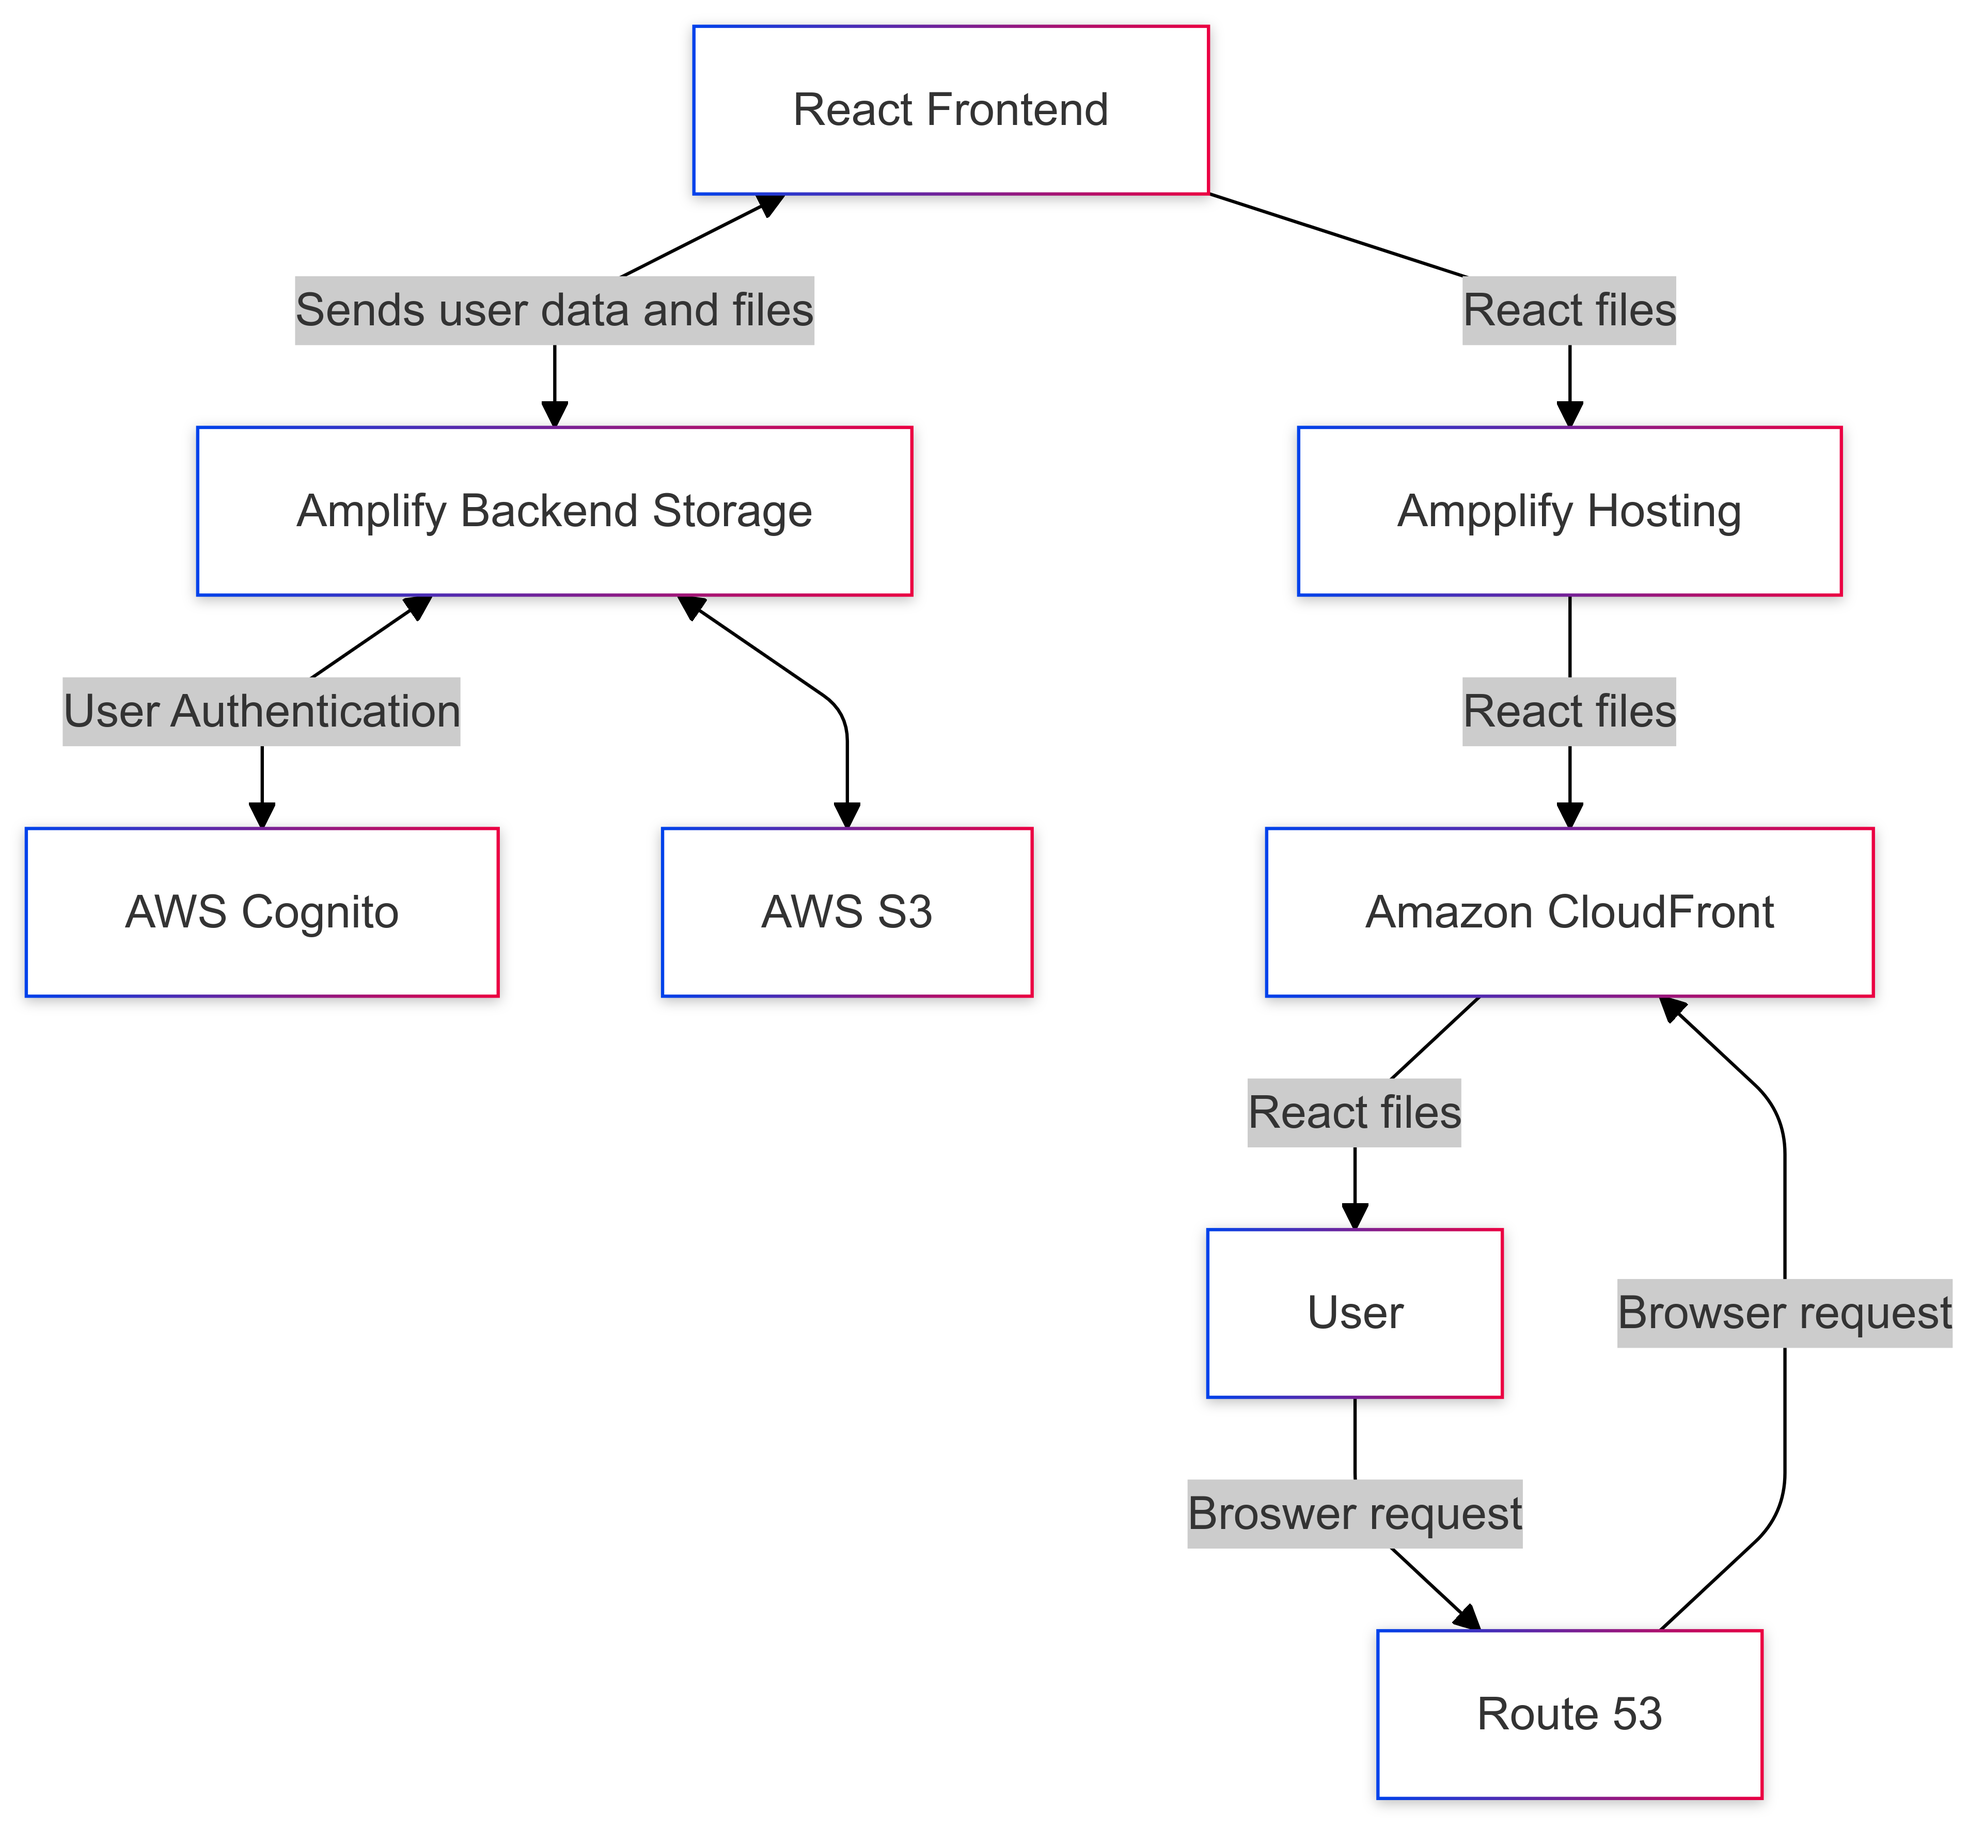
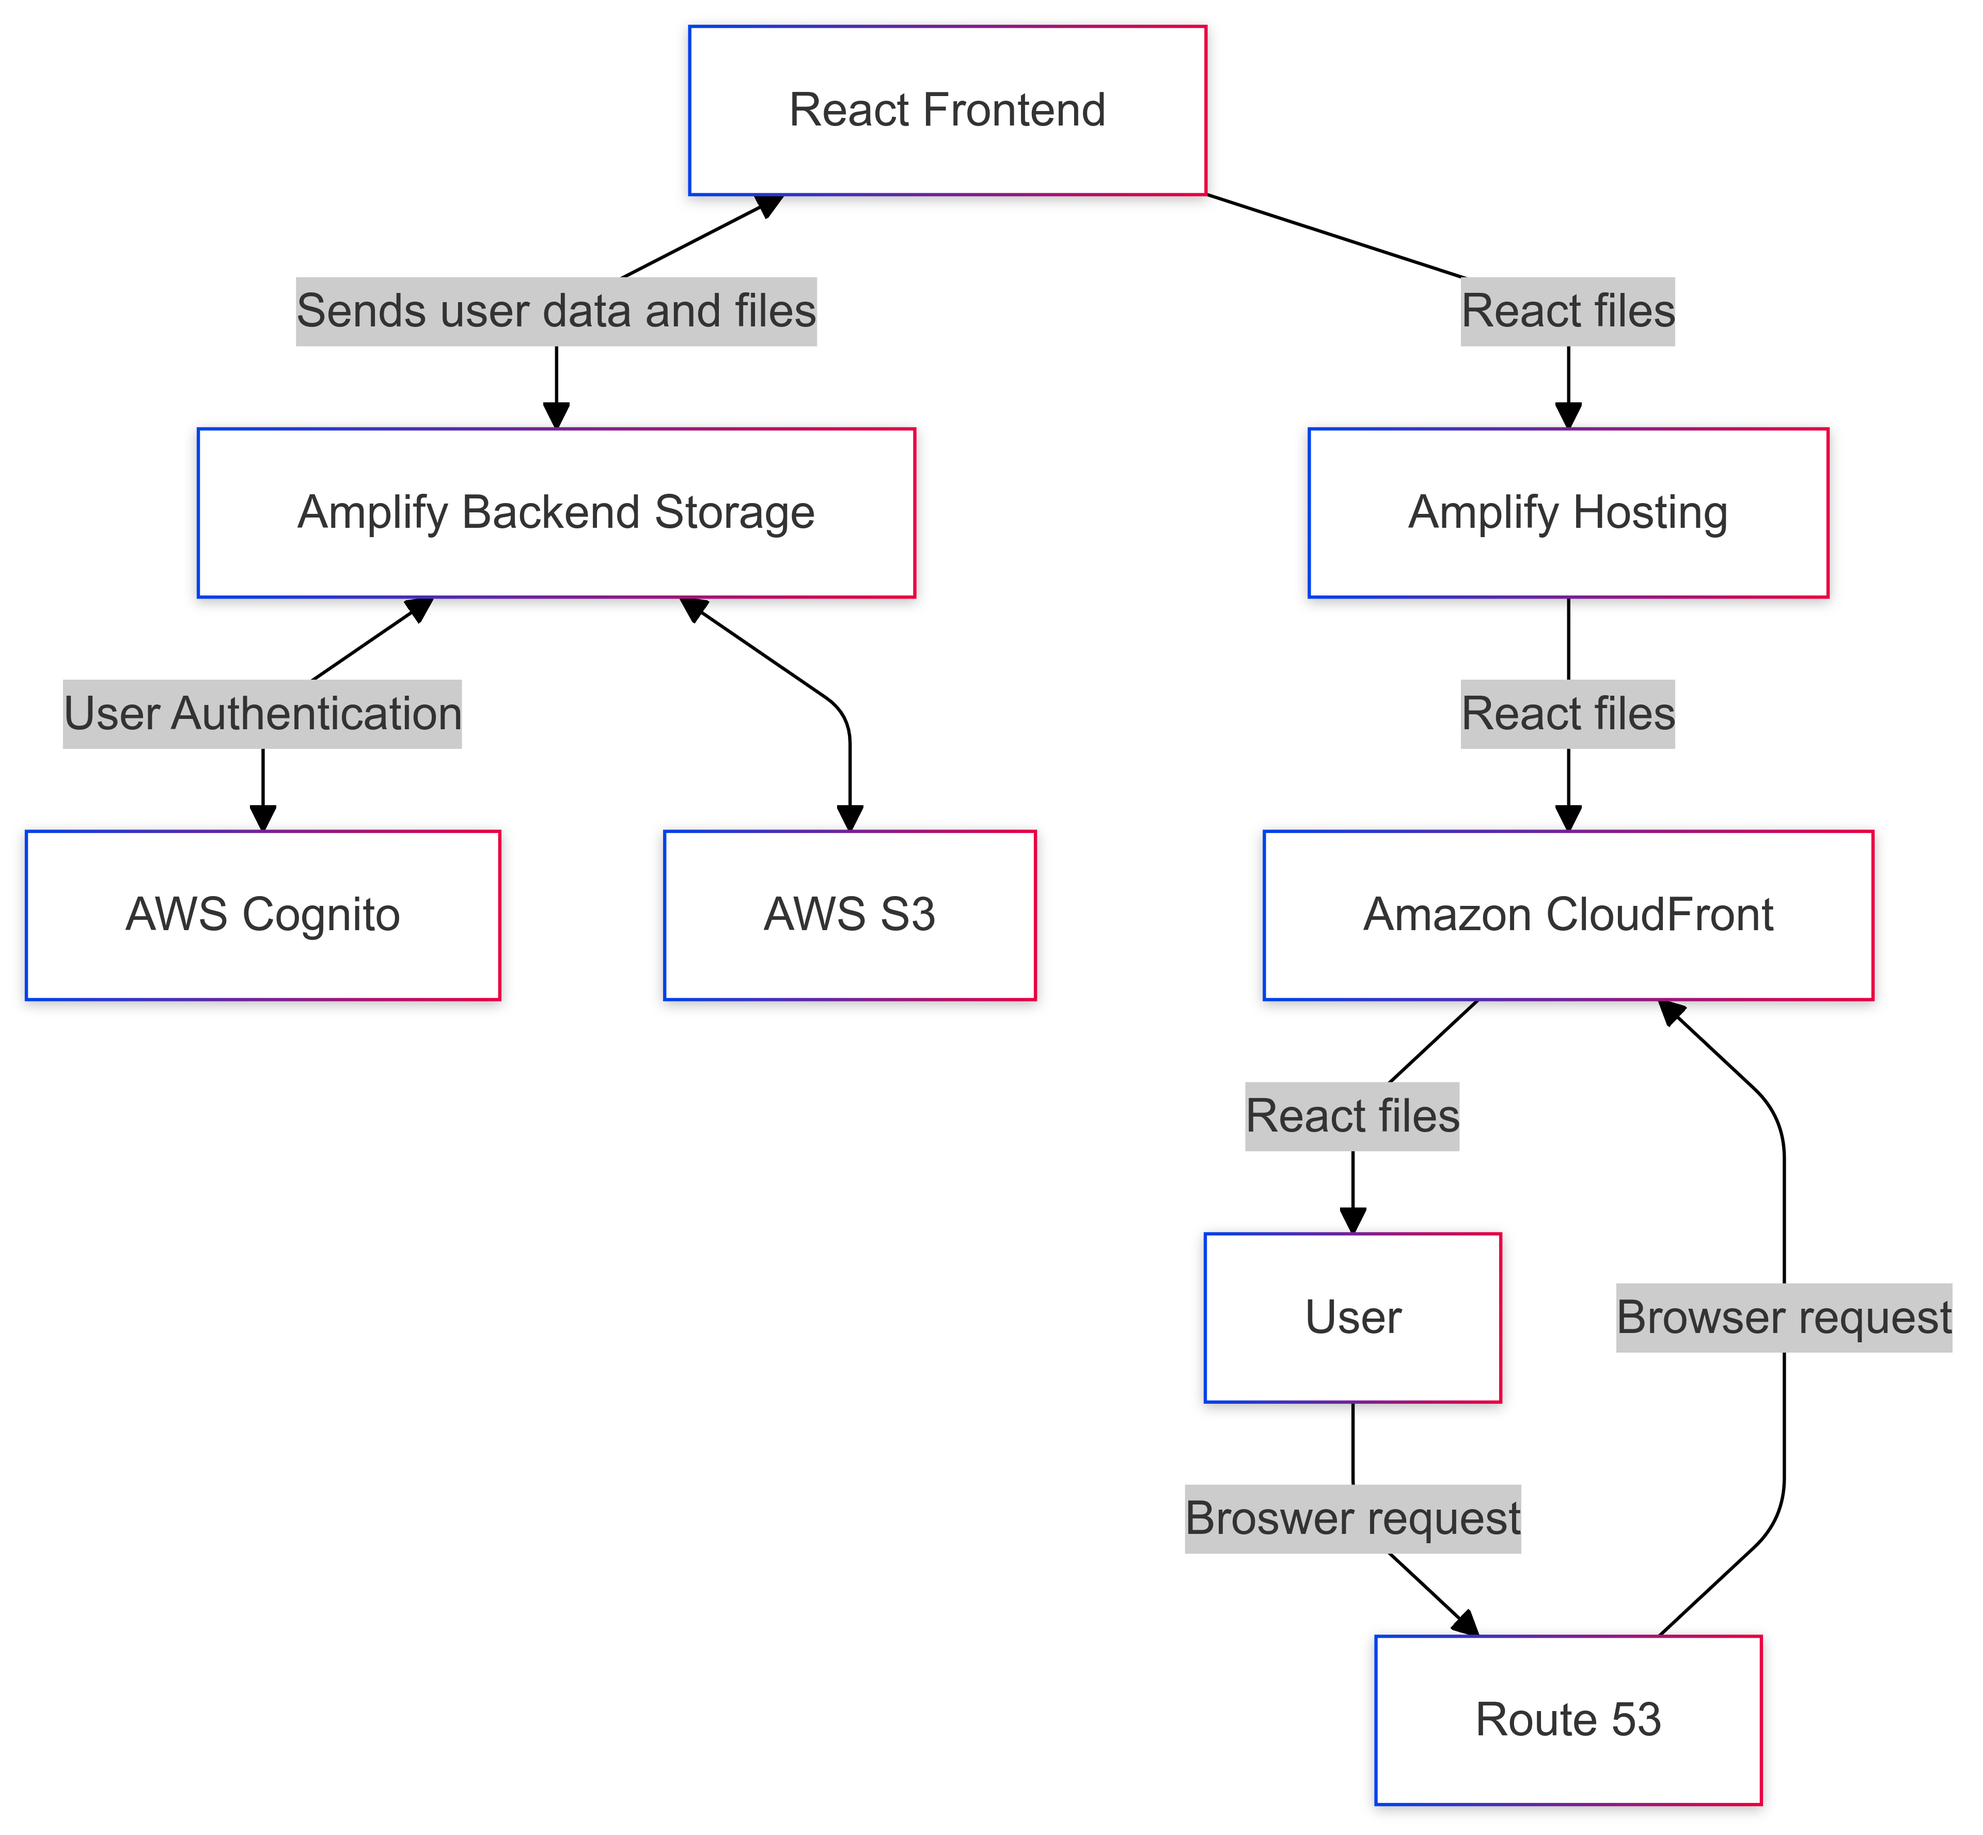
Update welcome messaging and font, SA diagram spelling fix

diff --git a/index.html b/index.html
@@ -6,6 +6,9 @@
     <link href="/s-letter.svg" rel="icon" type="image/x-icon">
     <meta name="viewport" content="width=device-width, initial-scale=1.0" />
     <link href="https://fonts.googleapis.com/css2?family=Montserrat:wght@400;700&display=swap" rel="stylesheet">
+    <link rel="preconnect" href="https://fonts.googleapis.com">
+    <link rel="preconnect" href="https://fonts.gstatic.com" crossorigin>
+    <link href="https://fonts.googleapis.com/css2?family=Bebas+Neue&display=swap" rel="stylesheet">
     <title>Shrimp Secure Cache</title>
   </head>
   <body>

diff --git a/src/index.css b/src/index.css
@@ -188,6 +188,7 @@ span{
 }
 
 .page-header-about-home {
+  font-family: 'Bebas Neue', serif;
   margin-top: 0px;
   text-align: center;
   min-height: 300px; 
@@ -206,12 +207,11 @@ span{
 
 .page-header-about h1 {
   font-size: 2.5rem;
-  text-shadow: 2px 2px 8px rgba(0, 0, 0, 0.7); /* Add text shadow for visibility */
 }
 
 @media (max-width: 600px) {
   .page-header-about {
-    background-attachment: scroll; /* Disable fixed effect on smaller screens */
+    background-attachment: scroll; 
   }
 }
 

diff --git a/src/Home.tsx b/src/Home.tsx
@@ -14,7 +14,7 @@ const Home: React.FC = () => {
                         <div className="top-body">
                       
                         <div className="page-header-about-home" id="parallax-header">
-  <h1>Welcome</h1>
+  <h1>The world is your shrimp cocktail</h1>
 </div>
    
       </div>
